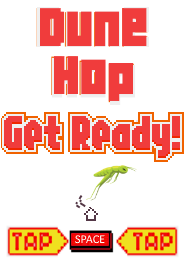
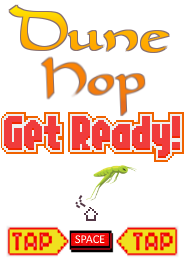
added rudimentary if statement place holder for level selection
improved desert message logo

Changed region(s): [[0.0272, 0.0, 0.9239, 0.4494]]

diff --git a/main.py b/main.py
@@ -136,15 +136,26 @@ DESERT_ASSETS = Level(
     pygame.mixer.Sound("sound/sfx_wing.wav")
 )
 
+user_choice = "desert"
 
-bg_surface = ICE_ASSETS.background
-floor_surface = ICE_ASSETS.floor
-pipe_surface = ICE_ASSETS.pipe
-sprite_df = ICE_ASSETS.sprite1
-sprite_mf = ICE_ASSETS.sprite2
-sprite_uf = ICE_ASSETS.sprite3
-game_over_surface = ICE_ASSETS.game_over
-movement_sound = ICE_ASSETS.mvmt_sfx
+if user_choice == "Ice":
+    bg_surface = ICE_ASSETS.background
+    floor_surface = ICE_ASSETS.floor
+    pipe_surface = ICE_ASSETS.pipe
+    sprite_df = ICE_ASSETS.sprite1
+    sprite_mf = ICE_ASSETS.sprite2
+    sprite_uf = ICE_ASSETS.sprite3
+    game_over_surface = ICE_ASSETS.game_over
+    movement_sound = ICE_ASSETS.mvmt_sfx
+else:
+    bg_surface = DESERT_ASSETS.background
+    floor_surface = DESERT_ASSETS.floor
+    pipe_surface = DESERT_ASSETS.pipe
+    sprite_df = DESERT_ASSETS.sprite1
+    sprite_mf = DESERT_ASSETS.sprite2
+    sprite_uf = DESERT_ASSETS.sprite3
+    game_over_surface = DESERT_ASSETS.game_over
+    movement_sound = DESERT_ASSETS.mvmt_sfx
 
 
 death_sound = pygame.mixer.Sound("sound/sfx_hit.wav")
